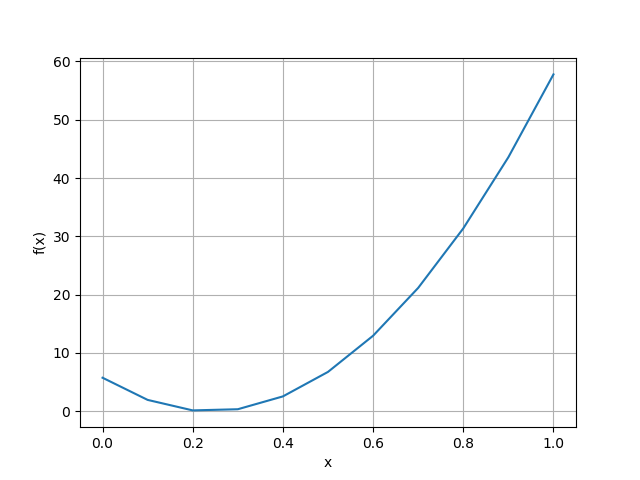
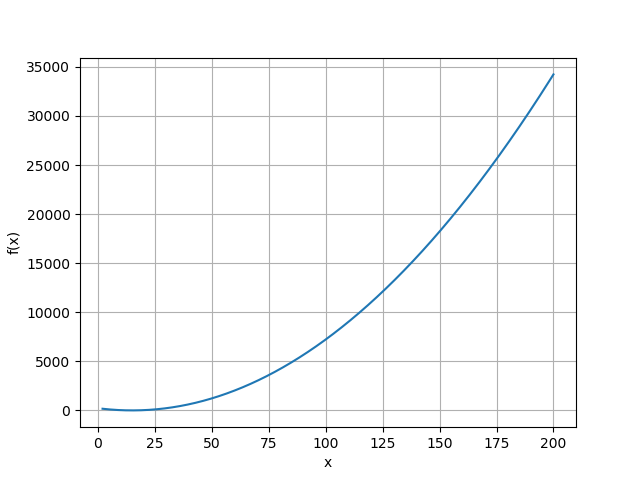
Add class Table

diff --git a/Lab1/part1.py b/Lab1/part1.py
@@ -5,10 +5,9 @@ from beautifultable import BeautifulTable
 
 
 def f(x):
-    # return math.pow((x - 15), 2) + 5
+    return math.pow((x - 15), 2) + 5
     # return math.pow(x + 5, 4)
-    # return math.sin(x)
-    return 100 * math.pow(x - 0.24, 2)
+    # return math.sin(x)\
 
 
 def F(n):
@@ -175,10 +174,9 @@ def minFunctionOnLineSearch(eps):
 
 def main():
     # INITIALIZATION
-    # a, b = 2, 200
+    a, b = 2, 200
     # a, b = -10, 15
     # a, b = -math.pi / 2, math.pi / 2
-    a, b = 0, 1
     eps = 1e-1
 
     plotFunction(a, b, eps)
